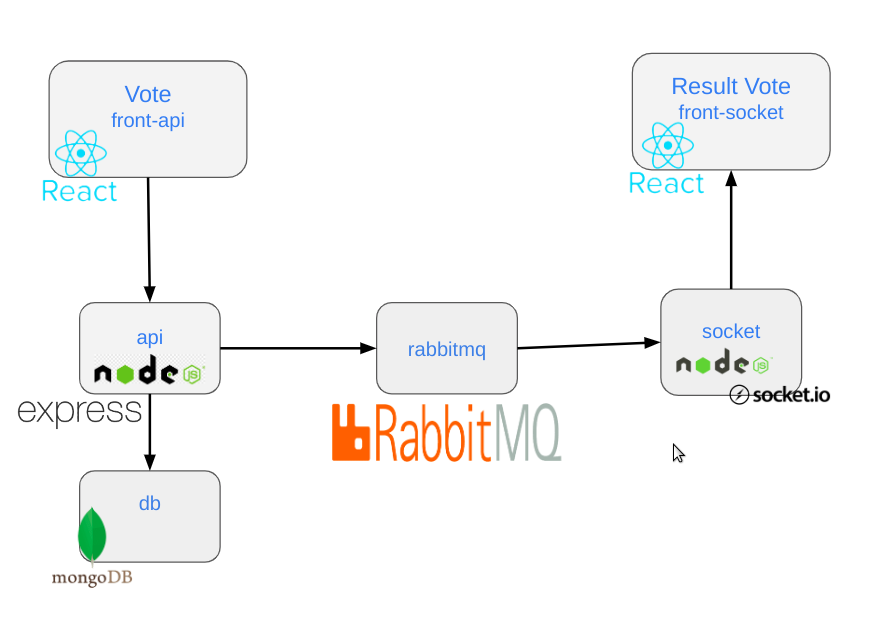
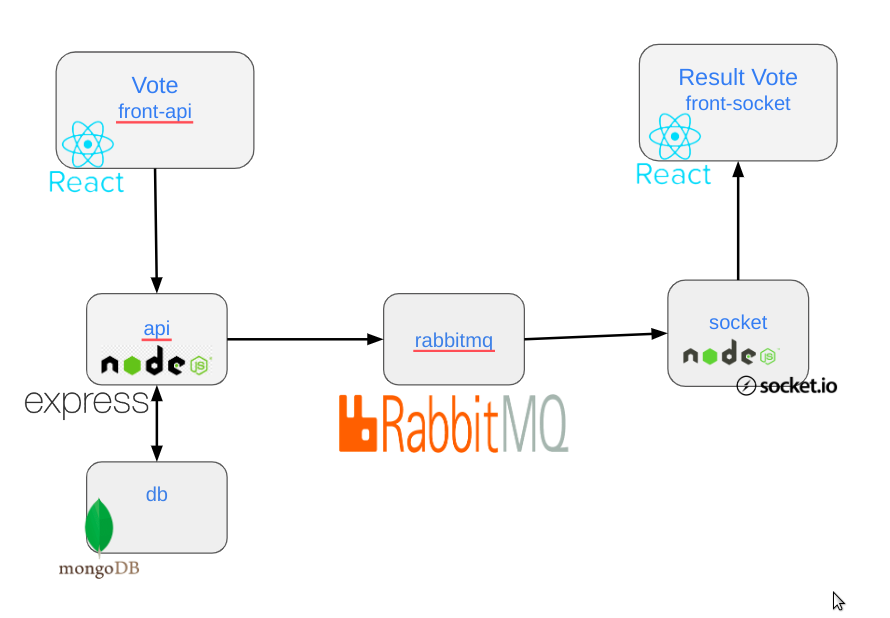
voting-app - update image

diff --git a/voting-app/README.md b/voting-app/README.md
@@ -1,5 +1,13 @@
 
 ## Architecture
+
+- front-api: front-end permettant à un utilisateur de voter.
+- api: back-end réceptionnant les votes.
+- front-socket: front-end permettant de visualiser les résultats.
+- socket: back-end mettant à disposition les résultats
+- db: database dans laquelle sont stockés les votes
+- rabbitmq: broker de messagerie qui récupère les votes depuis api et transmet les résultats à la partie socket.
+
 ![architecture](./architecture.png)
 
 ```

diff --git a/README.md b/README.md
@@ -2,6 +2,7 @@
 Docker est un logiciel Open Source permettant de gérer des conteneurs. Contrairement à la virtualisation classique.
 
 ### Project
+nous allons illustrer l’utilisation de Docker Compose avec l'application Voting App (une application micro-services simple).
 - Voting APP [here](./voting-app)
 
 ### Les commandes de base: 
